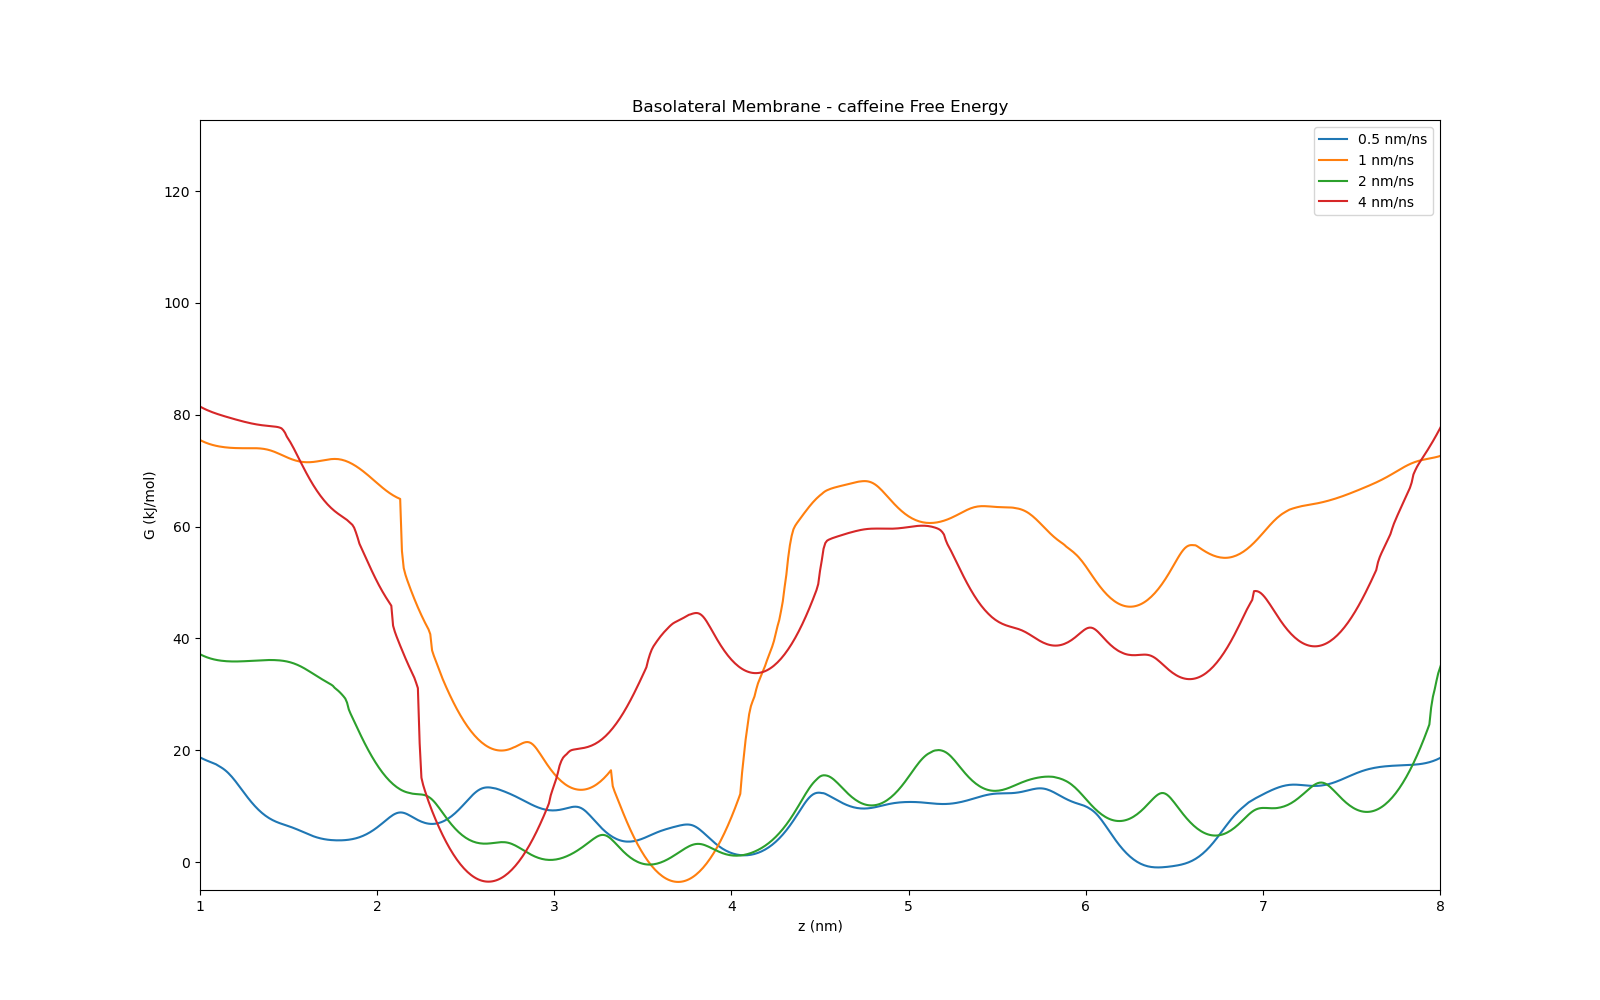
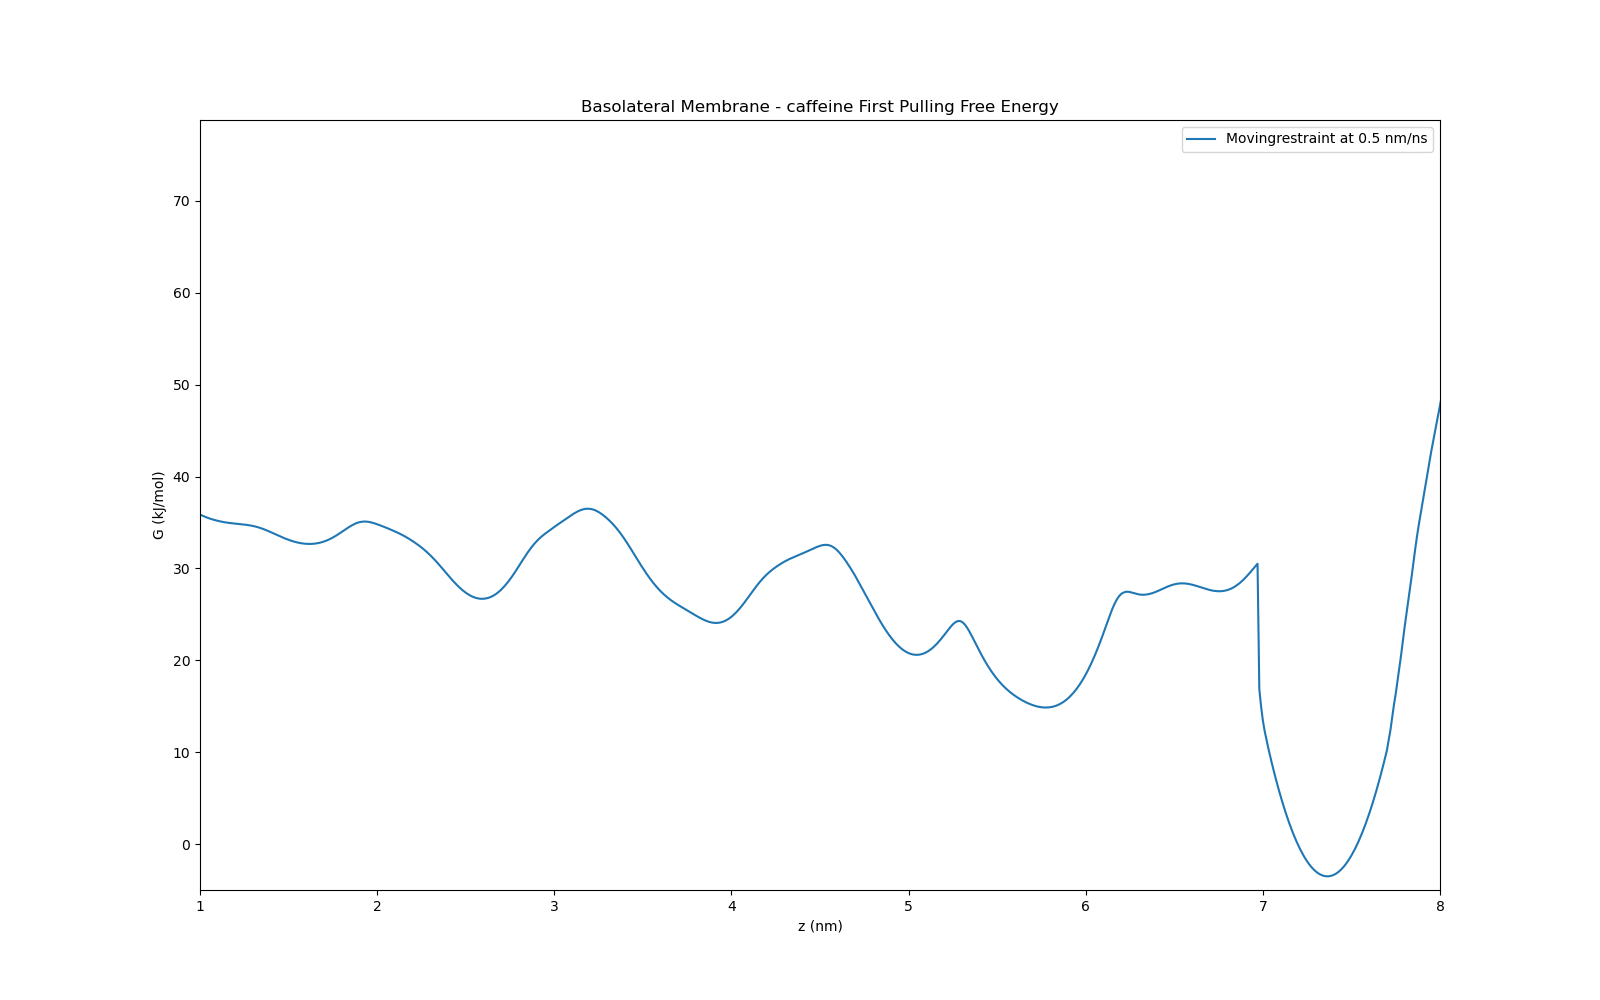
Add whatever changes we've made so far. We're probably not doing umbrella sampling...

diff --git a/common/plotting/plot_fe.py b/common/plotting/plot_fe.py
@@ -36,10 +36,9 @@ def plot_fe(args):
 # If no arguments are provided, use our hardcoded values
 if len(sys.argv) == 1:
     membranes = [
-        ('Apical Membrane', '../../apical/charmm-gui-2960669761-charmm36-nacl/gromacs/', './apical/'),
+        #('Apical Membrane', '../../apical/charmm-gui-2960669761-charmm36-nacl/gromacs/', './apical/'),
         ('Basolateral Membrane', '../../basolateral/charmm-gui-2960967181-nacl-charmm36/gromacs/', './basolateral/')]
     molecules = ['trihexyphenidyl', 'isopropanol', 'caffeine', 'morphine-6-glucuronide', 'sucrose']
-    configurations = [(0.5, 'vslow'), (1, 'slow'), (2, 'fast'), (4, 'vfast')]
     
     for membrane_name, membrane_fn, out_fn in membranes:
         os.makedirs(out_fn, exist_ok=True)
@@ -47,10 +46,9 @@ if len(sys.argv) == 1:
             args.out = out_fn + molecule + '.png'
             args.fn = []
             args.names = []
-            args.title = f'{membrane_name} - {molecule} Free Energy'
-            for s, speed_name in configurations:
-                args.fn += [membrane_fn + molecule + '/smd_' + speed_name + '_fe']
-                args.names += [f'{s} nm/ns']
+            args.title = f'{membrane_name} - {molecule} First Pulling Free Energy'
+            args.fn = [membrane_fn + molecule + '/umbrella_initial_fe']
+            args.names = [f'Movingrestraint at 0.5 nm/ns']
 
             plot_fe(args)
 
